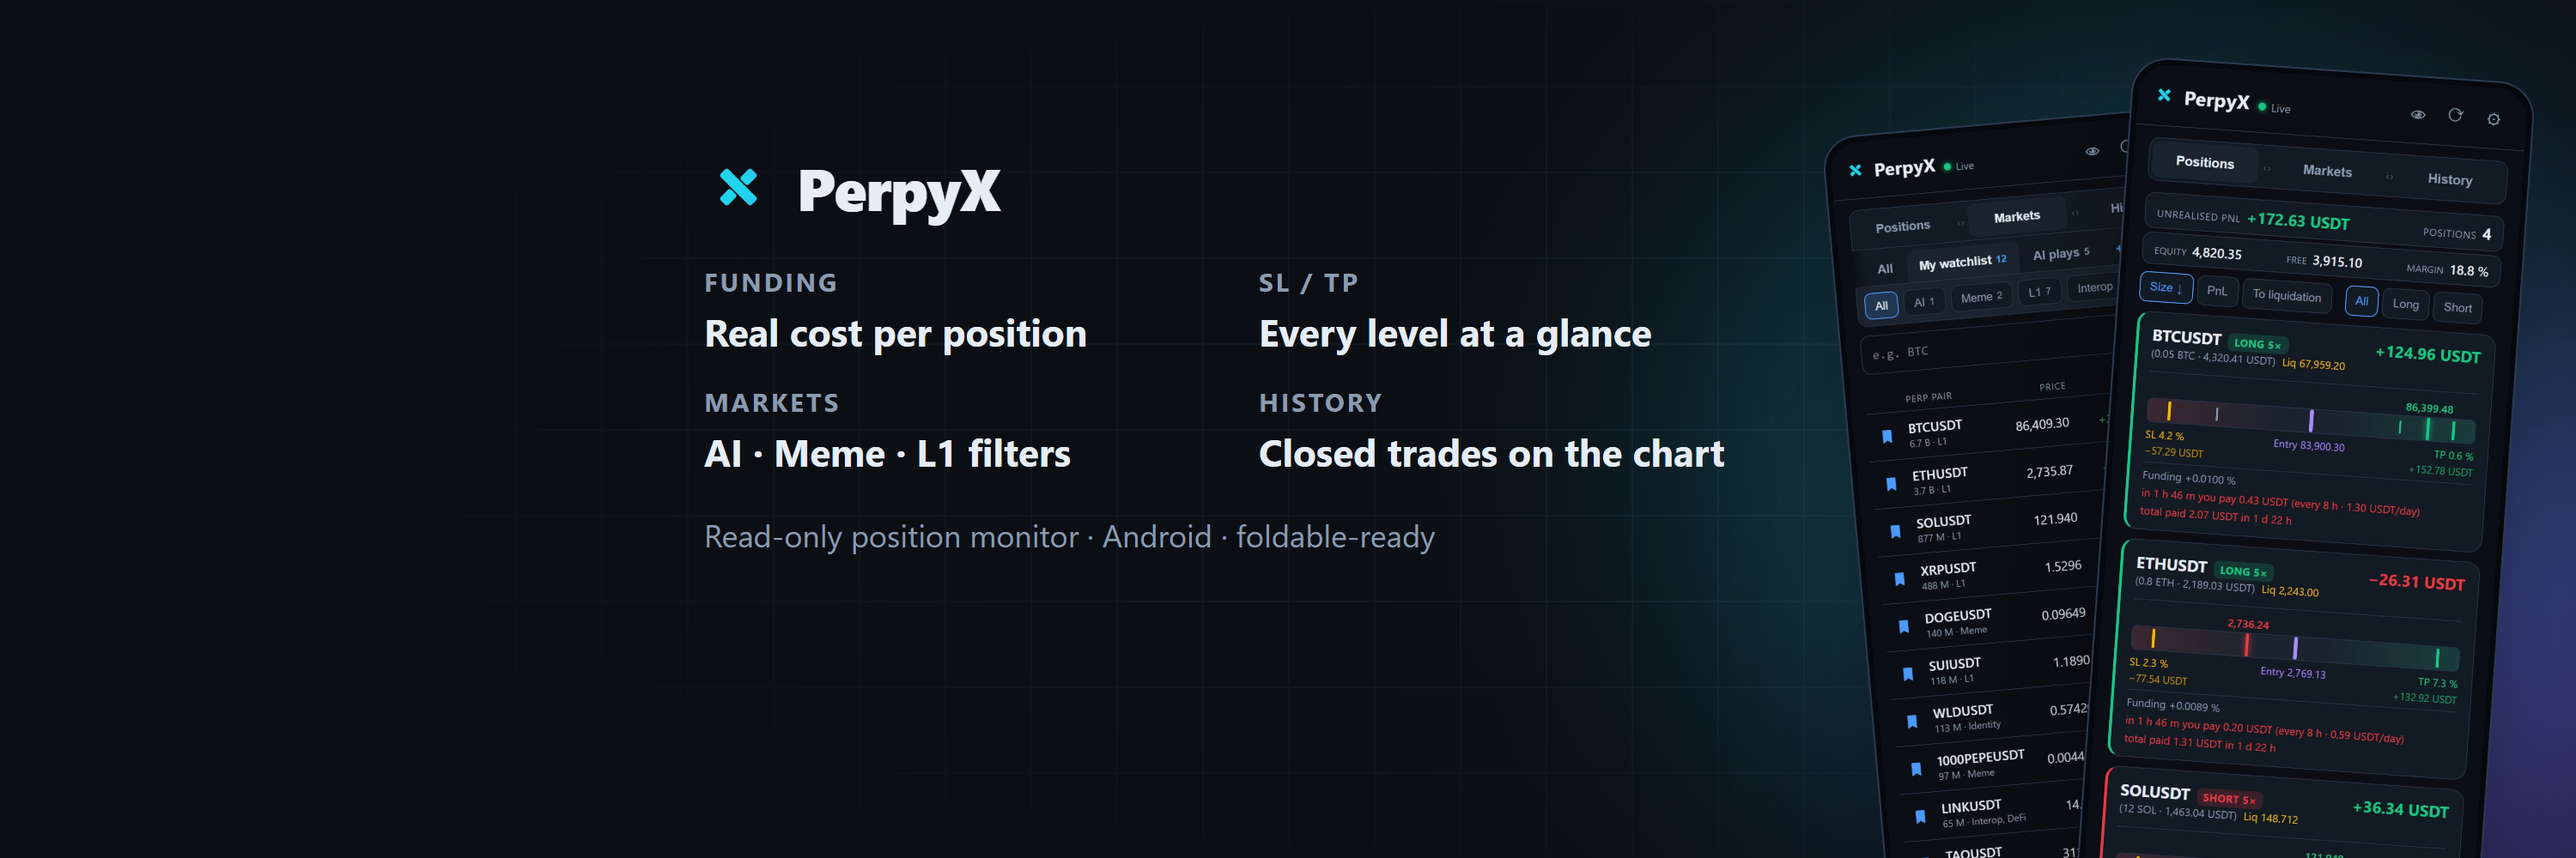
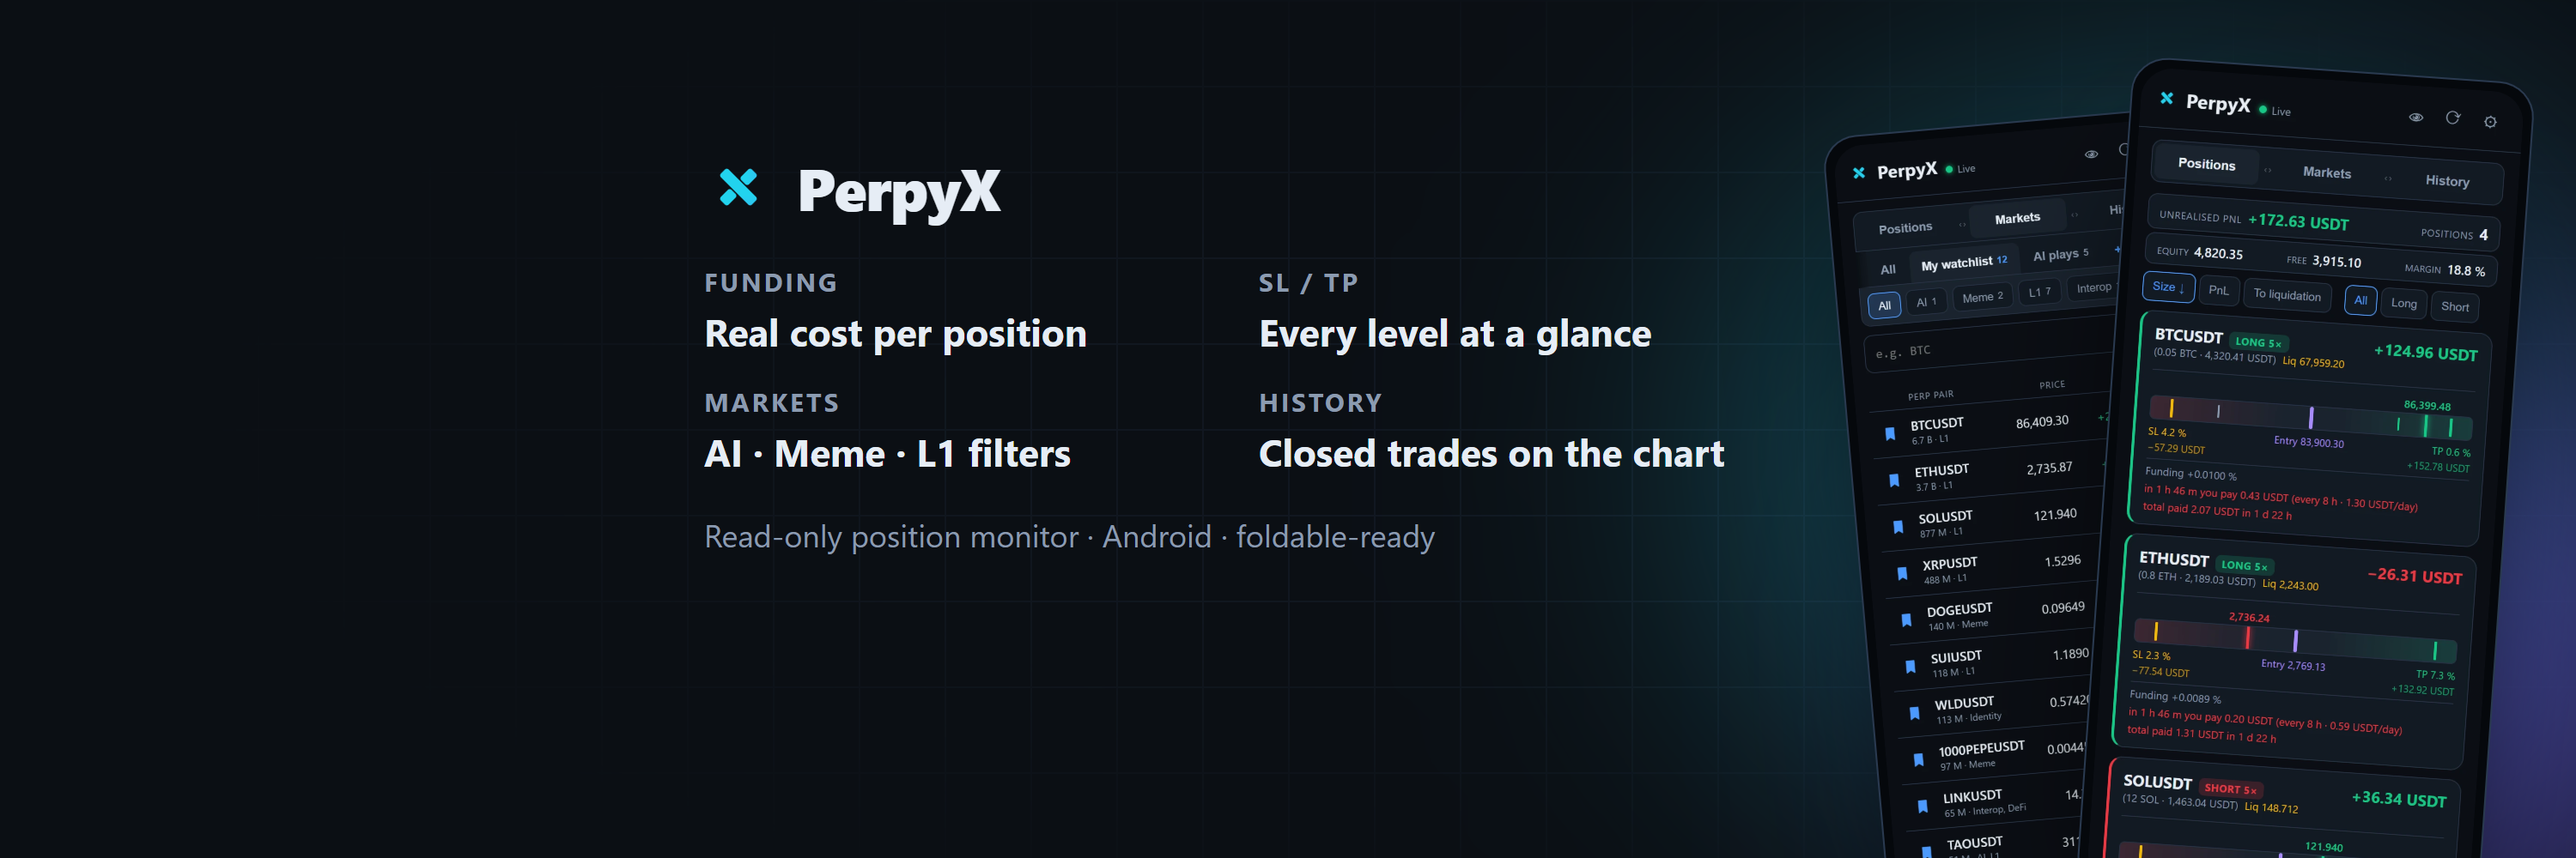
Design X: ukazkove pozice v plusu pro zahlavi, sirsi okraj displeje
tools/snimky-web.py: SNIMEK=zahlavi vyrobi jen prehled pozic pro zahlavi.

Claude-Session: https://claude.ai/code/session_015bSMKh62UKs2XyHsFmV9vj

diff --git a/design/x-profil/zahlavi.html b/design/x-profil/zahlavi.html
@@ -37,12 +37,12 @@
   .telefon {
     /* Okraj v px: procenta paddingu se počítají ze šířky záhlaví, ne telefonu
        (1,2 % = 18 px černé mezi rámečkem a displejem). */
-    position: absolute; padding: 3px; background: #05080c;
+    position: absolute; padding: 5px; background: #05080c;
     border: 1px solid #2a3a50; border-radius: 9% / 4.2%;
     box-shadow: 0 40px 90px -30px rgba(0, 0, 0, 0.95);
   }
   .telefon img { display: block; width: 100%; border-radius: 8.2% / 3.8%; }
-  .fold { position: absolute; padding: 4px; background: #05080c; border: 1px solid #2a3a50; border-radius: 4% / 3.2%; box-shadow: 0 40px 90px -30px rgba(0,0,0,0.95); }
+  .fold { position: absolute; padding: 6px; background: #05080c; border: 1px solid #2a3a50; border-radius: 4% / 3.2%; box-shadow: 0 40px 90px -30px rgba(0,0,0,0.95); }
   .fold img { display: block; width: 100%; border-radius: 3.5% / 2.8%; }
   .cip { display: inline-flex; align-items: center; gap: 8px; padding: 7px 14px; border-radius: 999px; border: 1px solid var(--line); background: rgba(17, 24, 35, 0.8); color: #c3cfdd; font-size: 17px; font-weight: 600; }
   .cip.ziva { border-color: rgba(22, 199, 132, 0.6); color: var(--text); }
@@ -51,6 +51,7 @@
   /* Vlastní snímek z telefonu: ořízne stavovou a navigační lištu Androidu. */
   .orez { overflow: hidden; border-radius: 8.2% / 3.8%; aspect-ratio: 904 / 2000; background: #0b0f14; box-shadow: 0 0 0 1px rgba(255, 255, 255, 0.09); }
   .orez img { display: block; width: 100%; border-radius: 0; transform: translateY(-4.6%); }
+  .orez.cely img { transform: none; }  /* vlastní snímek bez stavové lišty */
   .popis { color: var(--muted); font-size: 15px; letter-spacing: 1.4px; text-transform: uppercase; font-weight: 700; }
 </style>
 </head>
@@ -135,8 +136,8 @@
     <div style="font-size:44px;font-weight:800;line-height:1.06;letter-spacing:-1.1px">Made for one hand.<br><span class="grad">Built for the fold.</span></div>
     <div style="color:#b9c6d6;font-size:18px">Live PnL · SL/TP at a glance · real funding</div>
   </div>
-  <div class="telefon" style="width:208px;left:540px;top:44px;transform:rotate(-5deg);z-index:1"><div class="orez"><img src="vlastni/pozice.jpg" alt=""></div></div>
-  <div class="telefon" style="width:208px;left:712px;top:78px;transform:rotate(3deg);z-index:2"><div class="orez"><img src="vlastni/graf.jpg" alt=""></div></div>
+  <div class="telefon" style="width:208px;left:540px;top:44px;transform:rotate(-5deg);z-index:2"><div class="orez cely"><img src="pozice-zahlavi.webp" alt=""></div></div>
+  <div class="telefon" style="width:208px;left:722px;top:78px;transform:rotate(3deg);z-index:1"><div class="orez"><img src="vlastni/graf.jpg" alt=""></div></div>
   <div class="fold" style="width:560px;left:900px;top:46px;transform:rotate(-2deg);z-index:3"><img src="../../web/public/img/graf-fold.webp" alt=""></div>
 </section>
 

diff --git a/tools/snimky-web.py b/tools/snimky-web.py
@@ -18,6 +18,11 @@ from dotyk import Prohlizec
 URL = sys.argv[1]
 KOREN = os.path.dirname(os.path.dirname(os.path.abspath(__file__)))
 CIL = os.path.join(KOREN, 'web', 'public', 'img')
+# SNIMEK=zahlavi: jen přehled pozic pro záhlaví na X (design/x-profil),
+# s pozicemi v plusu, poměrem stran jako displej telefonu (393 × 870).
+PRO_ZAHLAVI = os.environ.get('SNIMEK') == 'zahlavi'
+if PRO_ZAHLAVI:
+    CIL = os.path.join(KOREN, 'design', 'x-profil')
 os.makedirs(CIL, exist_ok=True)
 
 
@@ -46,6 +51,15 @@ NAVRH = [
     ('SOLUSDT', 'Sell', 12, 1.025, 1.03, 0.92, 3),
     ('WLDUSDT', 'Buy', 1500, 0.955, 0.93, 1.17, 4),
 ]
+if PRO_ZAHLAVI:
+    def k(sym, vel, pnl):
+        # vstup vůči ceně tak, aby nerealizovaný zisk long pozice byl `pnl` USDT
+        return (ceny[sym] - pnl / vel) / ceny[sym]
+    NAVRH = [
+        ('BTCUSDT', 'Buy', 0.05, k('BTCUSDT', 0.05, 47.3), 0.985, 1.03, 1),
+        ('ETHUSDT', 'Buy', 1.2, k('ETHUSDT', 1.2, 136.8), 0.96, 1.07, 2),
+        ('WLDUSDT', 'Buy', 1500, k('WLDUSDT', 1500, -7.4), 0.93, 1.15, 4),
+    ]
 TED = int(time.time() * 1000)
 pozice, prikazy, plneni = [], [], []
 for sym, strana, vel, k, sl, tp, dm in NAVRH:
@@ -74,6 +88,23 @@ for sym, strana, vel, k, sl, tp, dm in NAVRH:
              'price': str(round(dno + 0.14 * rozpeti, 1)), 'qty': '0.02', 'cumExecQty': '0',
              'reduceOnly': False, 'createdTime': str(TED - 3600000)},
         ]
+
+# Uzavřený obchod na BTC pro snímek Historie: dva nákupy u dna, prodej
+# u vrcholu — ze skutečných svíček, aby značky seděly na grafu. Leží před
+# plněními současné pozice (52 h a 19 h zpátky), takže se nepletou.
+dno_h = min(svicky[-44:-30], key=lambda s: s[2])
+dno_h2 = min(svicky[-30:-24], key=lambda s: s[2])
+vrch_h = max(svicky[-24:-14], key=lambda s: s[1])
+nakupy_h = [(dno_h[0], round(dno_h[2] + 0.15 * (dno_h[1] - dno_h[2]), 1), 0.03),
+            (dno_h2[0], round(dno_h2[2] + 0.2 * (dno_h2[1] - dno_h2[2]), 1), 0.02)]
+prodej_h = (vrch_h[0] + 3600000, round(vrch_h[1] - 0.15 * (vrch_h[1] - vrch_h[2]), 1))
+vstup_h = sum(c * q for _, c, q in nakupy_h) / 0.05
+uzavrene = [{
+    'symbol': 'BTCUSDT', 'orderId': 'hist-btc', 'side': 'Sell', 'qty': '0.05', 'closedSize': '0.05',
+    'avgEntryPrice': f'{vstup_h:.1f}', 'avgExitPrice': str(prodej_h[1]),
+    'closedPnl': f'{(prodej_h[1] - vstup_h) * 0.05:.4f}', 'cumEntryValue': f'{vstup_h * 0.05:.2f}',
+    'leverage': '5', 'createdTime': str(prodej_h[0]), 'updatedTime': str(prodej_h[0] + 19),
+}]
 
 # Kresby na BTC: trendová čára po dvou minimech a vodorovná úroveň u maxima.
 starsi = min(svicky[-44:-24], key=lambda s: s[2])
@@ -105,6 +136,12 @@ seznamy = {'verze': 1, 'aktivni': 'fav', 'seznamy': [
         'TAOUSDT', 'FETUSDT', 'WLDUSDT', 'RENDERUSDT', 'VIRTUALUSDT')]},
 ]}
 
+for i, (cas, cena, mnozstvi) in enumerate(nakupy_h):
+    plneni.append({'symbol': 'BTCUSDT', 'side': 'Buy', 'execType': 'Trade', 'execPrice': str(cena),
+                   'orderId': f'hist-buy-{i}', 'execQty': str(mnozstvi), 'execTime': str(cas + 1800000)})
+plneni.append({'symbol': 'BTCUSDT', 'side': 'Sell', 'execType': 'Trade', 'execPrice': str(prodej_h[1]),
+               'orderId': 'hist-btc', 'execQty': '0.05', 'execTime': str(prodej_h[0])})
+
 podstrc = r"""
 (() => {
   if (navigator.serviceWorker) {
@@ -116,7 +153,7 @@ podstrc = r"""
   const pismo = document.createElement('style');
   pismo.textContent = "@font-face { font-family: 'Helvetica Neue'; src: local('Roboto'), local('Segoe UI'); }";
   document.addEventListener('DOMContentLoaded', () => document.head.appendChild(pismo));
-  const POZICE = %(pozice)s, PRIKAZY = %(prikazy)s, PLNENI = %(plneni)s;
+  const POZICE = %(pozice)s, PRIKAZY = %(prikazy)s, PLNENI = %(plneni)s, UZAVRENE = %(uzavrene)s;
   localStorage.setItem('perpdesk.apiKey', 'UKAZKA-BEZ-KLICE');
   localStorage.setItem('perpdesk.apiSecret', 'UKAZKA-BEZ-KLICE');
   localStorage.setItem('perpdesk.indicators', JSON.stringify(['VOL', 'EMA', 'RSI']));
@@ -168,7 +205,7 @@ podstrc = r"""
       });
       return ok({ retCode: 0, result: { list: l.slice(0, 50), nextPageCursor: '' } });
     }
-    if (u.includes('/v5/position/closed-pnl')) return ok({ retCode: 0, result: { list: [] } });
+    if (u.includes('/v5/position/closed-pnl')) return ok({ retCode: 0, result: { list: UZAVRENE } });
     return skutecny(vstup, volby);
   };
   // Soukromý stream je vymyšlený (přihlášení vždy projde), veřejný jde na burzu.
@@ -206,7 +243,7 @@ podstrc = r"""
 """ % {'pozice': json.dumps(pozice), 'prikazy': json.dumps(prikazy),
        'plneni': json.dumps(plneni), 'kresby': json.dumps(kresby),
        'alarmy': json.dumps(alarmy_data), 'kategorie': json.dumps(kategorie),
-       'seznamy': json.dumps(seznamy)}
+       'seznamy': json.dumps(seznamy), 'uzavrene': json.dumps(uzavrene)}
 
 p = Prohlizec()
 for c in ('Page.enable', 'Runtime.enable', 'Network.enable'):
@@ -236,6 +273,10 @@ def spust(sirka, vyska):
 p.prikaz('Page.addScriptToEvaluateOnNewDocument', source=podstrc)
 
 # 1) Přehled pozic
+if PRO_ZAHLAVI:
+    spust(393, 870)
+    snimek('pozice-zahlavi.webp')
+    sys.exit(0)
 spust(412, 880)
 snimek('pozice.webp')
 
@@ -269,5 +310,14 @@ p.prikaz('Input.dispatchTouchEvent', type='touchEnd', touchPoints=[])
 time.sleep(1.2)
 print('okno alarmu:', ev("!document.getElementById('sheetAlarm').hidden"))
 snimek('alarm.webp')
+
+# 6) Historie: uzavřený obchod v grafu se značkami nákupů a prodeje
+spust(412, 880)
+ev("document.querySelector('[data-tab=history]').click()")
+time.sleep(4)
+ev("document.querySelector('.trade') && document.querySelector('.trade').click()")
+time.sleep(7)
+print('graf obchodu:', ev("!document.getElementById('viewChart').hidden"))
+snimek('historie.webp')
 
 print('chyby:', ev('(window.__chyby||[]).join(" | ")'))
